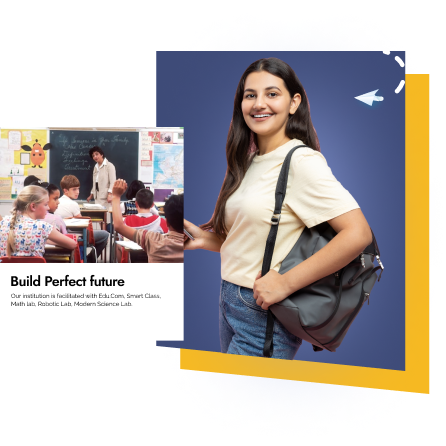
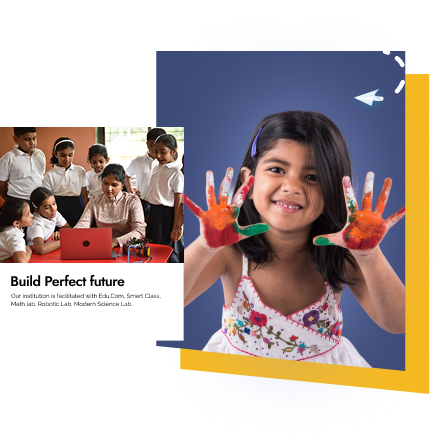
ramya

diff --git a/assets/css/responsive.css b/assets/css/responsive.css
@@ -852,7 +852,7 @@
     }
 
     .rs-breadcrumbs .breadcrumbs-img img {
-        min-height: 350px;
+        min-height: 0px;
     }
     .rs-breadcrumbs .breadcrumbs-text .page-title {
         font-size: 45px;
@@ -2954,7 +2954,7 @@
     }
 
     .rs-breadcrumbs .breadcrumbs-img img {
-        min-height: 250px;
+        min-height: 0px;
     }
     .rs-breadcrumbs .breadcrumbs-text .page-title {
         font-size: 35px;

diff --git a/index.php b/index.php
@@ -141,7 +141,7 @@
                                 </div>
                             </div>
                             <div class="col-lg-6 col-md-6 col-12">
-                                <img src="assets/images/image.png" alt="Build Perfect Future" class="img-fluid">
+                                <img src="assets/images/firstsectionimage.png" alt="Build Perfect Future" class="img-fluid">
                             </div>
                         </div>
                     </div>
